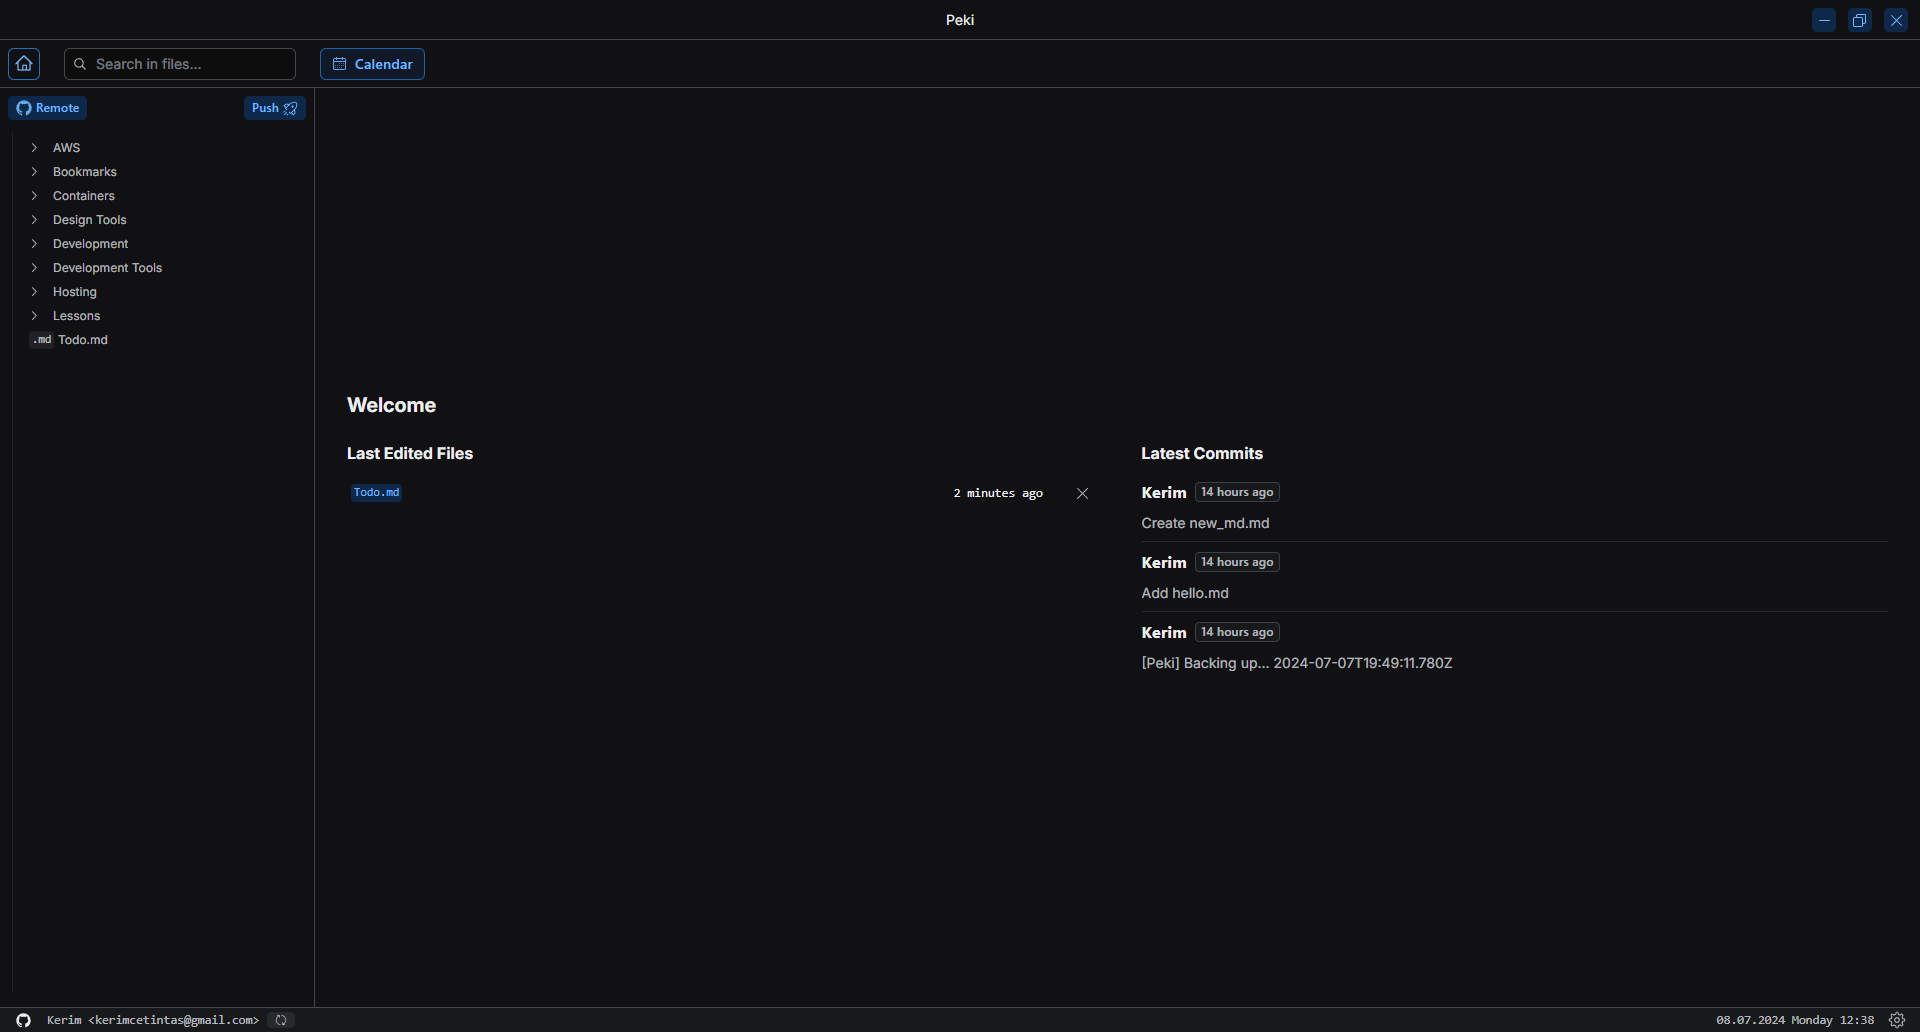
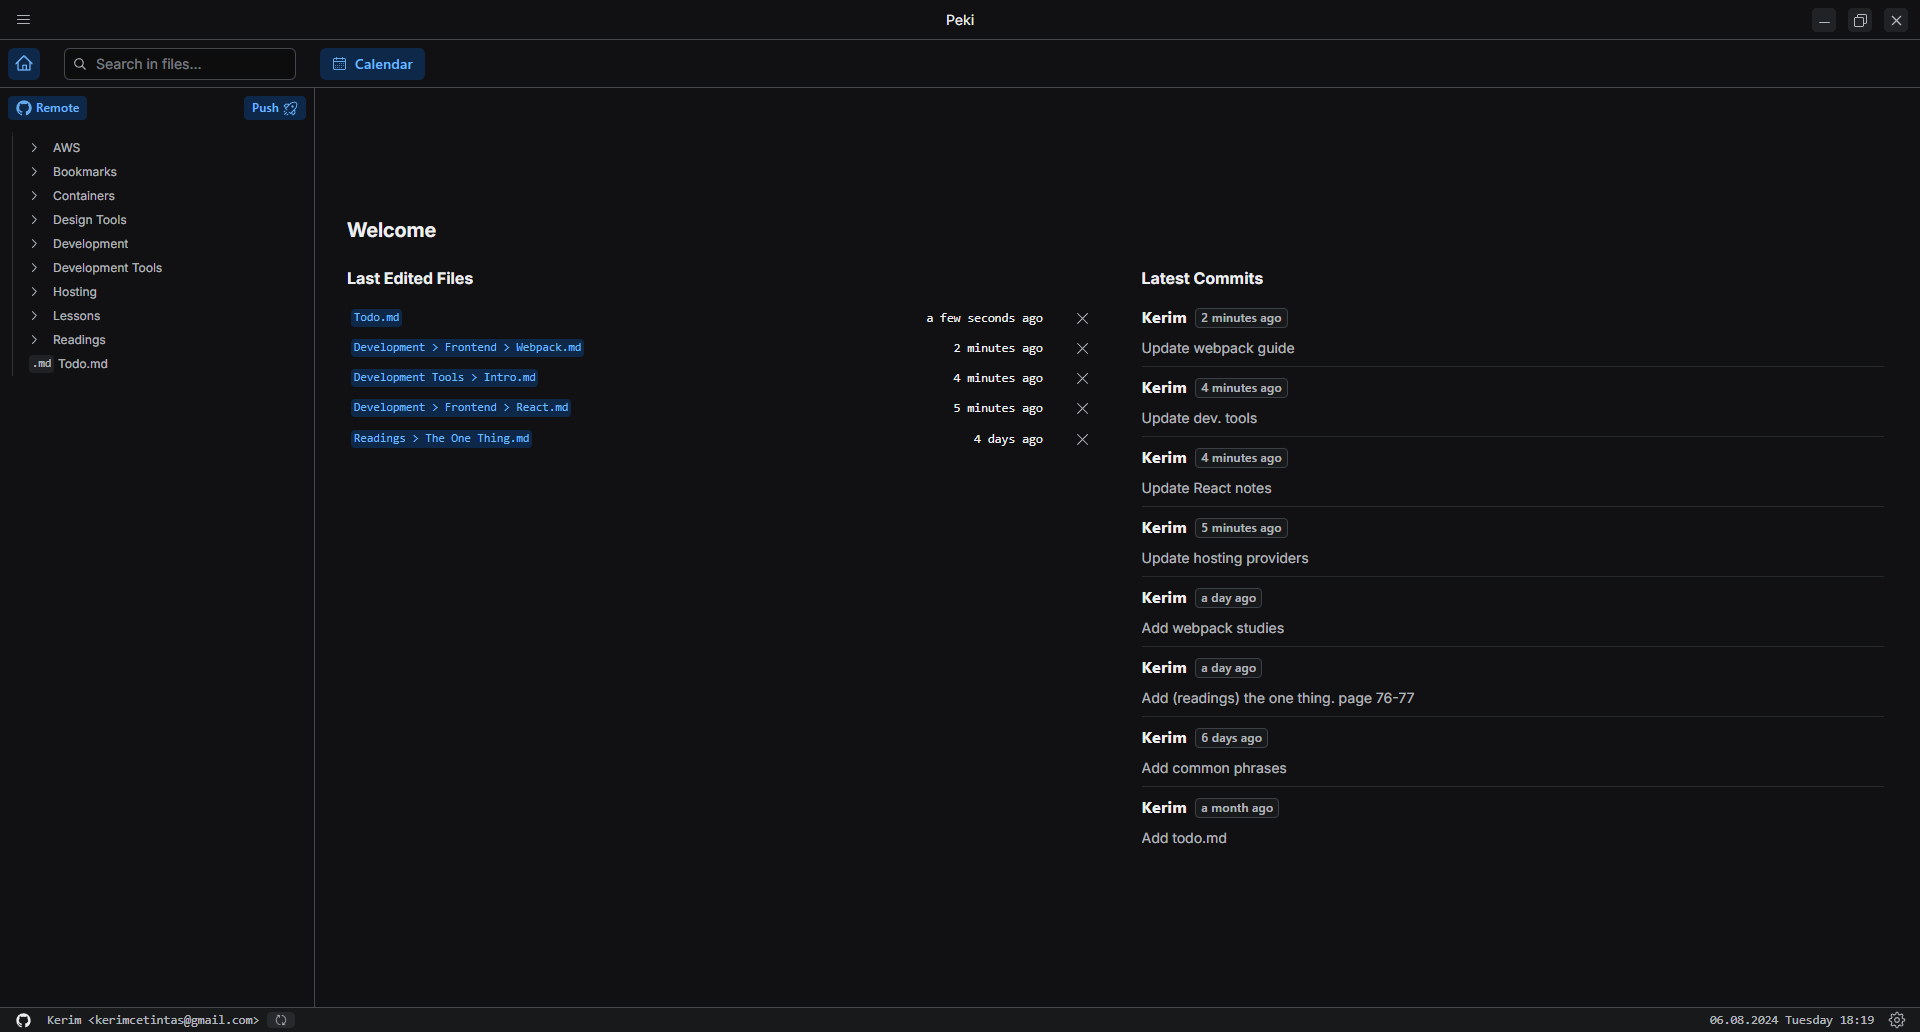
Update screenshots

diff --git a/README.md b/README.md
@@ -24,6 +24,7 @@ It is a code editor similar to VSCode. The editor offers a local-first approach,
 
 The editor includes a commit reminder feature to help users keep track of their changes and commit regularly. It also offers a beautiful commit history view via a calendar, making it easy to visualize and navigate through past commits. Additionally, the editor provides syntax highlighting for various programming languages, enhancing the coding experience and readability.
 
-|                             |                             |                             |
-| :-------------------------: | :-------------------------: | :-------------------------: |
-| ![alt text](img/peki_1.png) | ![alt text](img/peki_2.png) | ![alt text](img/peki_3.png) |
+|                             |                             |
+| :-------------------------: | :-------------------------: |
+| ![alt text](img/peki_1.png) | ![alt text](img/peki_2.png) |
+| ![alt text](img/peki_3.png) | ![alt text](img/peki_4.png) |
